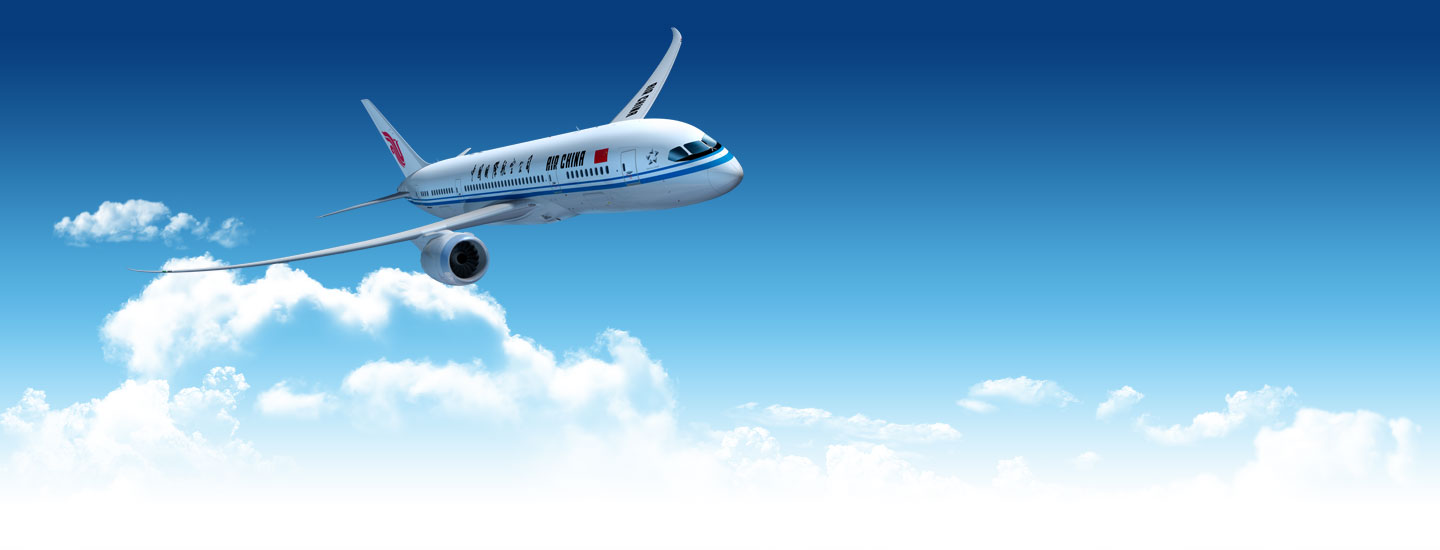
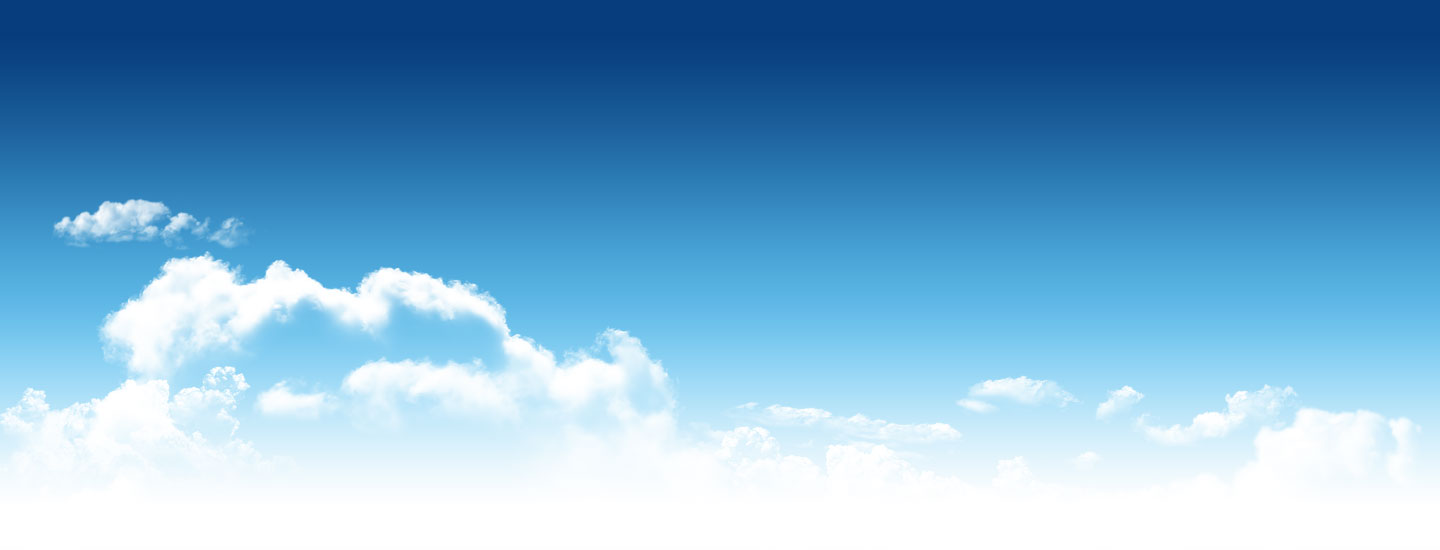
320 media

diff --git a/css/air-china.min.css b/css/air-china.min.css
@@ -1,1 +1,1 @@
-html,body{position:relative;width:100%}.gh-bg-flight{background:url(../img/gh-bg-01.png) no-repeat center;background-size:100% auto}.gh-wrapper{width:70%;margin:0 auto}.gh-icon{display:inline-block;vertical-align:middle;background:url(../img/gh-icon-map.png) no-repeat;background-size:30rem auto}.arrow-bottom{width:1.25em;height:1.25em;background-position:0 0}.calender{width:1.25em;height:1.25em;background-position:0 -1.25em}.checkbox{width:2.143em;height:2.143em;background-position:0 -4.286em}.search01{width:2.143em;height:2.143em;background-position:-2.143em -4.286em}.red-position{width:2.5em;height:2.5em;background-position:-2.5em -2.5em}.map-search{width:2.5em;height:2.5em;background-position:-2.5em -5em}.sina{width:3em;height:3em;background-position:0 -6em}.yezi{width:3em;height:3em;background-position:0 -9em}.tencent{width:3em;height:3em;background-position:0 -12em}.taobao{width:3em;height:3em;background-position:0 -15em}.baidu{width:3em;height:3em;background-position:0 -18em}.weixin{width:3em;height:3em;background-position:0 -21em}.qq{width:3em;height:3em;background-position:0 -24em}.arrow-right{width:1.5em;height:1.5em;background-position:-1.5em -4.5em}.flight{width:1.5em;height:1.5em;background-position:-1.5em 0}.gh-header .gh-right-sidebar{text-align:right}.gh-header .gh-right-sidebar a{display:inline-block;font-size:0.45em;margin-left:1em;line-height:2;color:#9f9f9f}.gh-header .gh-menu{position:relative;padding-left:15em;text-indent:0.5em}.gh-header .gh-main-logo{display:inline-block;position:absolute;top:0;left:0;width:9.75em;height:auto}.gh-header .gh-main-logo img{display:block;width:100%;max-width:100%;height:auto}.gh-header .gh-menu-list{position:relative;min-height:4em}.gh-header .gh-menu-list-ul:before,.gh-header .gh-menu-list-ul:after{content:" ";display:table}.gh-header .gh-menu-list-ul:after{clear:both}.gh-header .gh-menu-list-ul .menu-item{width:20%;padding:1em 0 0.9em 0;overflow:hidden;float:left}.gh-header .gh-menu-list-ul .menu-item:hover{background:#373737}.gh-header .gh-menu-list-ul .menu-item:hover .menu-title{color:#fff}.gh-header .gh-menu-list-ul .menu-title{font-size:0.65em;font-weight:bolder;color:#373737}.gh-header .gh-menu-list-ul .menu-desc{font-size:.45em;color:#9f9f9f}.gh-header .menu-active-bar{position:absolute;width:20%;height:.15em;bottom:0;left:0;background:#e00}.gh-sub-menu{position:absolute;background:#fff;width:100%;padding:1em 0;top:100%;left:0;z-index:10;box-shadow:0 -0.1em .1em #b9b9b9}.gh-sub-menu:before,.gh-sub-menu:after{content:" ";display:table}.gh-sub-menu:after{clear:both}.gh-sub-menu .sub-item{position:relative;float:left;width:25%}.gh-sub-menu .sub-item .gh-icon{position:absolute;top:-0.3em;left:0}.gh-sub-menu .sub-item .box{margin-left:1em}.gh-sub-menu .sub-item .box .title{font-size:.65em;font-weight:bolder;color:#373737}.gh-sub-menu .sub-item .box li{line-height:1}.gh-sub-menu .sub-item .box a{color:#9f9f9f;font-size:.45em}.gh-footer{background:#373737}.gh-footer .footer-link-list{padding:2em 0;border-bottom:1px solid #2a2a2a}.gh-footer .link-list li:before{content:"-";font-size:.65em;color:#9f9f9f}.gh-footer .link-list li a{font-size:.65em;color:#9f9f9f}.gh-footer .f-item{width:25%;float:left}.gh-footer .f-item .title{color:#fff;font-size:.7em;line-height:1.5;margin-bottom:1.5em}.gh-footer .tag-list:before,.gh-footer .tag-list:after{content:" ";display:table}.gh-footer .tag-list:after{clear:both}.gh-footer .tag-list .btn-tag{font-size:0.45em;padding:1em;display:block;float:left;margin:0 .5em .5em 0;background:#222;color:#fff}.gh-footer .tag-list .btn-tag.active{background:#e00}.gh-footer-footer{border-top:1px solid #4d4d4d;color:#9f9f9f;padding:2em 0;font-size:0.5em}.gh-footer-footer .copyright{text-indent:2em}.gh-footer-footer .gh-fr{margin-right:4em}.gh-footer-footer a{color:#9f9f9f;display:inline-block;padding-left:1em}.gh-carousel img{display:block;width:100%;max-width:100%;height:auto;visibility:hidden}.gh-carousel .img-item{position:relative;background:no-repeat left top;background-size:100% auto}.gh-carousel .img-item.slide-bac1{background-image:url(../img/top01.jpg)}.gh-carousel .img-item.slide-bac2{background-image:url(../img/top02.jpg)}.gh-carousel .desc-text{position:absolute;width:100%;top:2.5em;left:0;color:#fff}.gh-carousel .desc-text h2{font-size:3.5em;font-weight:bolder}.gh-carousel .desc-text p{font-size:1.4em}.gh-carousel .gh-left{float:left;text-align:left}.gh-carousel .gh-right{float:right;text-align:right}.gh-flights-booking{position:relative;margin-top:-2.5em;z-index:10}.gh-flights-booking .fb-title{font-size:1.1em;font-weight:bolder}.gh-flights-booking .fb-title b{color:#e00}.gh-flights-booking .fb-choose{margin:0.5em 0}.gh-flights-booking .fb-choose:before,.gh-flights-booking .fb-choose:after{content:" ";display:table}.gh-flights-booking .fb-choose:after{clear:both}.gh-flights-booking .fb-choose .fb-item{float:left;width:40%}.gh-flights-booking .fb-choose .choose-box{float:left;width:50%}.gh-flights-booking .fb-choose .choose-box h6{font-size:0.7em}.gh-flights-booking .fb-choose .choose-box .current{font-size:1.2em;color:#757575;font-weight:bolder}.gh-flights-booking .fb-choose .fb-item-first{float:left;width:30%}.gh-flights-booking .fb-choose .fb-item-last{float:left;width:30%;font-size:.7em;padding-top:1.5em}.gh-flights-booking .fb-choose .fb-item-last:before,.gh-flights-booking .fb-choose .fb-item-last:after{content:" ";display:table}.gh-flights-booking .fb-choose .fb-item-last:after{clear:both}.gh-flights-booking .fb-choose .fb-item-last .check-box{float:left;margin-right:1em}.gh-flights-booking .fb-choose .fb-item-last .search-box{position:relative;top:-2em;float:left;background:#e00}.gh-flights-booking .fb-choose .fb-item-last .search-box:before,.gh-flights-booking .fb-choose .fb-item-last .search-box:after{content:" ";display:table}.gh-flights-booking .fb-choose .fb-item-last .search-box:after{clear:both}.gh-flights-booking .fb-choose .fb-item-last .search-box span{display:block;float:left;background:inherit;color:#fff;height:4em;width:6em;text-align:center;line-height:4em}.gh-flights-booking .fb-choose .fb-item-last .search-box input{display:block;float:left;background:#222;vertical-align:top;padding:0;margin:0;width:4em;height:4em;border:none;font-size:1em}.gh-flights-booking .fb-choose .fb-item-last .search-box .search01{position:absolute;right:.8em;top:50%;margin-top:-1.07em}.gh-flights-booking .fb-choose-icon{margin-right:-0.75em;margin-top:2em}.gh-flights-booking .fb-choose-icon:before,.gh-flights-booking .fb-choose-icon:after{content:" ";display:table}.gh-flights-booking .fb-choose-icon:after{clear:both}.gh-flights-booking .fb-icon-choose-item{float:left;width:25%}.gh-flights-booking .fb-icon-choose-item .box{margin-right:0.75em}.gh-flights-booking .fb-icon-choose-item .icon-box{background:#3696dd;overflow:hidden}.gh-flights-booking .fb-icon-choose-item .icon-box img{display:block;width:100%;max-width:100%;height:auto;margin-top:-2em}.gh-flights-booking .fb-icon-choose-item .icon-box h3{text-align:center;color:#fff;font-size:1em;text-shdow:0 5px 5px #ccc;height:3em;overflow:hidden;margin:-2em 0 0 0;padding:0 0 1em 0}.gh-flights-booking .fb-icon-choose-item .desc{background:#e7e7e7;opacity:0.5;color:#373737;font-size:0.65em;padding:2em}.gh-index-title{text-align:center;padding:2em 0}.gh-index-title h2{font:1em;font-weight:bolder}.gh-index-title p{font:.7em normal}.gh-about-estimation{width:50%}.gh-about-estimation .title{color:#757575;font-size:0.8em}.gh-about-estimation p{color:#757575;font-size:0.65em;margin:1em 0.5em 0.5em 0}.gh-check-status-box{width:25%}.gh-check-status-box .box{margin-left:2em}.gh-check-status-box .title{font-size:.8em}.gh-check-status-box .textbox{display:block;width:100%;height:2em;font-size:.6em;color:#757575;border:1px solid;padding:.15em .2em;margin:1em 0 0.5em 0}.gh-check-status-box .textbox:focus,.gh-check-status-box .textbox:active,.gh-check-status-box .textbox:visited{box-shadow:none;border:1px solid;outline:none}.gh-check-status-box .btn{width:6em;height:2em;font-size:.6em;padding:.15em .2em;color:#757575;background:none;border:1px solid}.gh-top-client{margin:0 0 1.5em 0}.gh-top-client ul{margin-right:-1em}.gh-top-client ul li{display:block;float:left;width:16.6666%}.gh-top-client ul li .box{margin-right:1em}.gh-top-client ul li img{display:block;width:100%;max-width:100%;height:auto}.gh-index-map-item{position:relative}.gh-index-map{display:block;width:100%;max-width:100%;height:auto}.gh-index-map-search{position:absolute;width:100%;left:0;bottom:1em}.gh-index-map-search .input-box{position:relative;width:30%;height:2em;margin:0 auto;font-size:.6em;border-radius:.6em;padding:0 3em;background:#fff;color:#9f9f9f;border:1px solid}.gh-index-map-search .input-box input{border:none;font-size:1em;width:100%}.gh-index-map-search .input-box input:hover,.gh-index-map-search .input-box input:active,.gh-index-map-search .input-box input:visited,.gh-index-map-search .input-box input:focus{border:none;box-shadow:none;outline:none}.gh-index-map-search .input-box .gh-icon{position:absolute;top:50%;margin-top:-1.25em}.gh-index-map-search .input-box .red-position{left:0.5em}.gh-index-map-search .input-box .map-search{right:0.5em}.gh-events{margin-right:-1em}.gh-events:before,.gh-events:after{content:" ";display:table}.gh-events:after{clear:both}.events-item{float:left;width:33.3333%;margin:0 0 1em 0}.events-item .box{margin-right:1em}.events-item:hover .e-desc{background:#3696dd;color:#fff}.events-item:hover .img-hover{-webkit-animation:slidefromtop 200ms linear;-moz-animation:slidefromtop 200ms linear;-o-animation:slidefromtop 200ms linear;animation:slidefromtop 200ms linear;top:0}.events-item .e-img-box{position:relative;overflow:hidden}.events-item .e-img-box img{display:block;width:100%;max-width:100%;height:auto}.events-item .e-img-box .img-hover{position:absolute;top:-100%;left:0;height:100%;width:100%;background:rgba(0,0,0,0.5);color:#fff;font-size:0.45em}.events-item .e-img-box .text{position:absolute;top:1em;left:.5em;color:#fff}.events-item .e-img-box .text p{font-size:0.6em}.events-item .e-img-box .text h2{font-size:1.5em;font-weight:bold}.events-item .e-img-box .text h3{font-size:1.2em}.events-item .e-img-box .text h4{font-size:1em;font-weight:bold}.events-item .e-desc .title{font-size:0.9em;line-height:2em;height:2em;overflow:hidden;font-weight:bold}.events-item .e-desc p{font-weight:normal;font-size:0.65em;line-height:1em;height:2em;overflow:hidden}.gh-index-flight-hr{position:relative;text-align:center}.gh-index-flight-hr img{position:absolute;top:.8em;display:block;width:100%;max-width:100%;height:auto}.gh-index-follow{background:#3696dd;color:#fff;padding:2em 0;text-align:center}.gh-index-follow .follow-title{font-size:1em;font-weight:bolder;margin-bottom:1.5em}.gh-index-follow .follow-text{font-size:0.65em;line-height:1.5}.gh-index-follow .follow-btn-list{padding:2em 0 0 0}.gh-index-follow .follow-btn-list a{display:inline-block;margin:0 1em}.gh-index-contact{padding:2em 0}.gh-index-contact .ic-item{width:25%;float:left;color:#373737}.gh-index-contact .ic-item .box{margin-right:3em}.gh-index-contact .ic-item .box1{margin-right:2em}.gh-index-contact .ic-item .logo{display:block;width:100%;max-width:100%;height:auto}.gh-index-contact .ic-item .title{font-size:0.7em;font-weight:bolder}.gh-index-contact .ic-item p{font-size:0.65em;line-height:1.5;margin-top:2em}.gh-index-contact .ic-item p b{font-weight:bolder}.gh-index-contact .ic-item .add-map{background:url(../img/gh-bg-03.png) no-repeat center center;background-size:10em auto}.gh-index-contact .ic-item .add-map p{margin:1em 0 0 0}.gh-index-contact .post-list .post-item{position:relative;padding-left:2.7em;margin-top:0.75em}.gh-index-contact .post-list .post-item .photo{position:absolute;left:0;top:0;width:2.2em;height:auto}.gh-index-contact .post-list .post-item h5{font-size:0.7em;font-weight:bolder}.gh-index-contact .post-list .post-item p{font-style:italic;font-size:0.5em;margin:0}.gh-index-contact .flickr-list{margin-top:1em}.gh-index-contact .flickr-list:before,.gh-index-contact .flickr-list:after{content:" ";display:table}.gh-index-contact .flickr-list:after{clear:both}.gh-index-contact .flickr-list li{display:block;width:33.333%;float:left;margin-bottom:.2em}.gh-index-contact .flickr-list li .box{margin-right:.2em}.gh-index-contact .flickr-list li img{display:block;width:100%;max-width:100%;height:auto}@keyframes slidefromtop{from{transform:translate(0, 0);-moz-transform:translate(0, 0);-webkit-transform:translate(0, 0);-o-transform:translate(0, 0)}to{transform:translate(0, 100%);-moz-transform:translate(0, 100%);-webkit-transform:translate(0, 100%);-o-transform:translate(0, 100%)}}@-webkit-keyframes slidefromtop{from{top:-100%}to{top:0}}@-moz-keyframes slidefromtop{from{transform:translate(0, 0);-moz-transform:translate(0, 0);-webkit-transform:translate(0, 0);-o-transform:translate(0, 0)}to{transform:translate(0, 100%);-moz-transform:translate(0, 100%);-webkit-transform:translate(0, 100%);-o-transform:translate(0, 100%)}}@-o-keyframes slidefromtop{from{transform:translate(0, 0);-moz-transform:translate(0, 0);-webkit-transform:translate(0, 0);-o-transform:translate(0, 0)}to{transform:translate(0, 100%);-moz-transform:translate(0, 100%);-webkit-transform:translate(0, 100%);-o-transform:translate(0, 100%)}}@media only screen and (min-width:320px) and (max-width:480px),(max-width:320px){.gh-footer .gh-wrapper{width:auto}.gh-footer .f-item{float:none;width:290px;margin:0 auto}}
+html,body{position:relative;width:100%}.gh-bg-flight{background:url(../img/gh-bg-01.png) no-repeat center;background-size:100% auto}.gh-wrapper{width:70%;margin:0 auto}.gh-icon{display:inline-block;vertical-align:middle;background:url(../img/gh-icon-map.png) no-repeat;background-size:30rem auto}.arrow-bottom{width:1.25em;height:1.25em;background-position:0 0}.calender{width:1.25em;height:1.25em;background-position:0 -1.25em}.checkbox{width:2.143em;height:2.143em;background-position:0 -4.286em}.search01{width:2.143em;height:2.143em;background-position:-2.143em -4.286em}.red-position{width:2.5em;height:2.5em;background-position:-2.5em -2.5em}.map-search{width:2.5em;height:2.5em;background-position:-2.5em -5em}.sina{width:3em;height:3em;background-position:0 -6em}.yezi{width:3em;height:3em;background-position:0 -9em}.tencent{width:3em;height:3em;background-position:0 -12em}.taobao{width:3em;height:3em;background-position:0 -15em}.baidu{width:3em;height:3em;background-position:0 -18em}.weixin{width:3em;height:3em;background-position:0 -21em}.qq{width:3em;height:3em;background-position:0 -24em}.arrow-right{width:1.5em;height:1.5em;background-position:-1.5em -4.5em}.flight{width:1.5em;height:1.5em;background-position:-1.5em 0}.gh-header .gh-right-sidebar{text-align:right}.gh-header .gh-right-sidebar a{display:inline-block;font-size:0.45em;margin-left:1em;line-height:2;color:#9f9f9f}.gh-header .gh-menu{position:relative;padding-left:15em;text-indent:0.5em}.gh-header .gh-main-logo{display:inline-block;position:absolute;top:0;left:0;width:9.75em;height:auto}.gh-header .gh-main-logo img{display:block;width:100%;max-width:100%;height:auto}.gh-header .gh-menu-list{position:relative;min-height:4em}.gh-header .gh-menu-list-ul:before,.gh-header .gh-menu-list-ul:after{content:" ";display:table}.gh-header .gh-menu-list-ul:after{clear:both}.gh-header .gh-menu-list-ul .menu-item{width:20%;padding:1em 0 0.9em 0;overflow:hidden;float:left}.gh-header .gh-menu-list-ul .menu-item:hover{background:#373737}.gh-header .gh-menu-list-ul .menu-item:hover .menu-title{color:#fff}.gh-header .gh-menu-list-ul .menu-title{font-size:0.65em;font-weight:bolder;color:#373737}.gh-header .gh-menu-list-ul .menu-desc{font-size:.45em;color:#9f9f9f}.gh-header .menu-active-bar{position:absolute;width:20%;height:.15em;bottom:0;left:0;background:#e00}.gh-sub-menu{position:absolute;background:#fff;width:100%;padding:1em 0;top:100%;left:0;z-index:10;box-shadow:0 -0.1em .1em #b9b9b9}.gh-sub-menu:before,.gh-sub-menu:after{content:" ";display:table}.gh-sub-menu:after{clear:both}.gh-sub-menu .sub-item{position:relative;float:left;width:25%}.gh-sub-menu .sub-item .gh-icon{position:absolute;top:-0.3em;left:0}.gh-sub-menu .sub-item .box{margin-left:1em}.gh-sub-menu .sub-item .box .title{font-size:.65em;font-weight:bolder;color:#373737}.gh-sub-menu .sub-item .box li{line-height:1}.gh-sub-menu .sub-item .box a{color:#9f9f9f;font-size:.45em}.gh-footer{background:#373737}.gh-footer .footer-link-list{padding:2em 0;border-bottom:1px solid #2a2a2a}.gh-footer .link-list li:before{content:"-";font-size:.65em;color:#9f9f9f}.gh-footer .link-list li a{font-size:.65em;color:#9f9f9f}.gh-footer .f-item{width:25%;float:left}.gh-footer .f-item .title{color:#fff;font-size:.7em;line-height:1.5;margin-bottom:1.5em}.gh-footer .tag-list:before,.gh-footer .tag-list:after{content:" ";display:table}.gh-footer .tag-list:after{clear:both}.gh-footer .tag-list .btn-tag{font-size:0.45em;padding:1em;display:block;float:left;margin:0 .5em .5em 0;background:#222;color:#fff}.gh-footer .tag-list .btn-tag.active{background:#e00}.gh-footer-footer{border-top:1px solid #4d4d4d;color:#9f9f9f;padding:2em 0;font-size:0.5em}.gh-footer-footer .copyright{text-indent:2em}.gh-footer-footer .gh-fr{margin-right:4em}.gh-footer-footer a{color:#9f9f9f;display:inline-block;padding-left:1em}.gh-carousel img{display:block;width:100%;max-width:100%;height:auto;visibility:hidden}.gh-carousel .img-item{position:relative;background:no-repeat left top;background-size:100% auto}.gh-carousel .img-item.slide-bac1{background-image:url(../img/top01.jpg)}.gh-carousel .img-item.slide-bac2{background-image:url(../img/top02.jpg)}.gh-carousel .desc-text{position:absolute;width:100%;top:2.5em;left:0;color:#fff}.gh-carousel .desc-text h2{font-size:3.5em;font-weight:bolder}.gh-carousel .desc-text p{font-size:1.4em}.gh-carousel .gh-left{float:left;text-align:left}.gh-carousel .gh-right{float:right;text-align:right}.gh-flights-booking{position:relative;margin-top:-2.5em;z-index:10}.gh-flights-booking .fb-title{font-size:1.1em;font-weight:bolder}.gh-flights-booking .fb-title b{color:#e00}.gh-flights-booking .fb-choose{margin:0.5em 0}.gh-flights-booking .fb-choose:before,.gh-flights-booking .fb-choose:after{content:" ";display:table}.gh-flights-booking .fb-choose:after{clear:both}.gh-flights-booking .fb-choose .fb-item{float:left;width:40%}.gh-flights-booking .fb-choose .choose-box{float:left;width:50%}.gh-flights-booking .fb-choose .choose-box h6{font-size:0.7em}.gh-flights-booking .fb-choose .choose-box .current{font-size:1.2em;color:#757575;font-weight:bolder}.gh-flights-booking .fb-choose .fb-item-first{float:left;width:30%}.gh-flights-booking .fb-choose .fb-item-last{float:left;width:30%;font-size:.7em;padding-top:1.5em}.gh-flights-booking .fb-choose .fb-item-last:before,.gh-flights-booking .fb-choose .fb-item-last:after{content:" ";display:table}.gh-flights-booking .fb-choose .fb-item-last:after{clear:both}.gh-flights-booking .fb-choose .fb-item-last .check-box{float:left;margin-right:1em}.gh-flights-booking .fb-choose .fb-item-last .search-box{position:relative;top:-2em;float:left;background:#e00}.gh-flights-booking .fb-choose .fb-item-last .search-box:before,.gh-flights-booking .fb-choose .fb-item-last .search-box:after{content:" ";display:table}.gh-flights-booking .fb-choose .fb-item-last .search-box:after{clear:both}.gh-flights-booking .fb-choose .fb-item-last .search-box span{display:block;float:left;background:inherit;color:#fff;height:4em;width:6em;text-align:center;line-height:4em}.gh-flights-booking .fb-choose .fb-item-last .search-box input{display:block;float:left;background:#222;vertical-align:top;padding:0;margin:0;width:4em;height:4em;border:none;font-size:1em}.gh-flights-booking .fb-choose .fb-item-last .search-box .search01{position:absolute;right:.8em;top:50%;margin-top:-1.07em}.gh-flights-booking .fb-choose-icon{margin-right:-0.75em;margin-top:2em}.gh-flights-booking .fb-choose-icon:before,.gh-flights-booking .fb-choose-icon:after{content:" ";display:table}.gh-flights-booking .fb-choose-icon:after{clear:both}.gh-flights-booking .fb-icon-choose-item{float:left;width:25%}.gh-flights-booking .fb-icon-choose-item .box{margin-right:0.75em}.gh-flights-booking .fb-icon-choose-item .icon-box{background:#3696dd;overflow:hidden}.gh-flights-booking .fb-icon-choose-item .icon-box img{display:block;width:100%;max-width:100%;height:auto;margin-top:-2em}.gh-flights-booking .fb-icon-choose-item .icon-box h3{text-align:center;color:#fff;font-size:1em;text-shdow:0 5px 5px #ccc;height:3em;overflow:hidden;margin:-2em 0 0 0;padding:0 0 1em 0}.gh-flights-booking .fb-icon-choose-item .desc{background:#e7e7e7;opacity:0.5;color:#373737;font-size:0.65em;padding:2em}.gh-index-title{text-align:center;padding:2em 0}.gh-index-title h2{font:1em;font-weight:bolder}.gh-index-title p{font:.7em normal}.gh-about-estimation{width:50%}.gh-about-estimation .title{color:#757575;font-size:0.8em}.gh-about-estimation p{color:#757575;font-size:0.65em;margin:1em 0.5em 0.5em 0}.gh-check-status-box{width:25%}.gh-check-status-box .box{margin-left:2em}.gh-check-status-box .title{font-size:.8em}.gh-check-status-box .textbox{display:block;width:100%;height:2em;font-size:.6em;color:#757575;border:1px solid;padding:.15em .2em;margin:1em 0 0.5em 0}.gh-check-status-box .textbox:focus,.gh-check-status-box .textbox:active,.gh-check-status-box .textbox:visited{box-shadow:none;border:1px solid;outline:none}.gh-check-status-box .btn{width:6em;height:2em;font-size:.6em;padding:.15em .2em;color:#757575;background:none;border:1px solid}.gh-top-client{margin:0 0 1.5em 0}.gh-top-client ul{margin-right:-1em}.gh-top-client ul li{display:block;float:left;width:16.6666%}.gh-top-client ul li .box{margin-right:1em}.gh-top-client ul li img{display:block;width:100%;max-width:100%;height:auto}.gh-index-map-item{position:relative}.gh-index-map{display:block;width:100%;max-width:100%;height:auto}.gh-index-map-search{position:absolute;width:100%;left:0;bottom:1em}.gh-index-map-search .input-box{position:relative;width:30%;height:2em;margin:0 auto;font-size:.6em;border-radius:.6em;padding:0 3em;background:#fff;color:#9f9f9f;border:1px solid}.gh-index-map-search .input-box input{border:none;font-size:1em;width:100%}.gh-index-map-search .input-box input:hover,.gh-index-map-search .input-box input:active,.gh-index-map-search .input-box input:visited,.gh-index-map-search .input-box input:focus{border:none;box-shadow:none;outline:none}.gh-index-map-search .input-box .gh-icon{position:absolute;top:50%;margin-top:-1.25em}.gh-index-map-search .input-box .red-position{left:0.5em}.gh-index-map-search .input-box .map-search{right:0.5em}.gh-events{margin-right:-1em}.gh-events:before,.gh-events:after{content:" ";display:table}.gh-events:after{clear:both}.events-item{float:left;width:33.3333%;margin:0 0 1em 0}.events-item .box{margin-right:1em}.events-item:hover .e-desc{background:#3696dd;color:#fff}.events-item:hover .img-hover{-webkit-animation:slidefromtop 200ms linear;-moz-animation:slidefromtop 200ms linear;-o-animation:slidefromtop 200ms linear;animation:slidefromtop 200ms linear;top:0}.events-item .e-img-box{position:relative;overflow:hidden}.events-item .e-img-box img{display:block;width:100%;max-width:100%;height:auto}.events-item .e-img-box .img-hover{position:absolute;top:-100%;left:0;height:100%;width:100%;background:rgba(0,0,0,0.5);color:#fff;font-size:0.45em}.events-item .e-img-box .text{position:absolute;top:1em;left:.5em;color:#fff}.events-item .e-img-box .text p{font-size:0.6em}.events-item .e-img-box .text h2{font-size:1.5em;font-weight:bold}.events-item .e-img-box .text h3{font-size:1.2em}.events-item .e-img-box .text h4{font-size:1em;font-weight:bold}.events-item .e-desc .title{font-size:0.9em;line-height:2em;height:2em;overflow:hidden;font-weight:bold}.events-item .e-desc p{font-weight:normal;font-size:0.65em;line-height:1em;height:2em;overflow:hidden}.gh-index-flight-hr{position:relative;text-align:center}.gh-index-flight-hr img{position:absolute;top:.8em;display:block;width:100%;max-width:100%;height:auto}.gh-index-follow{background:#3696dd;color:#fff;padding:2em 0;text-align:center}.gh-index-follow .follow-title{font-size:1em;font-weight:bolder;margin-bottom:1.5em}.gh-index-follow .follow-text{font-size:0.65em;line-height:1.5}.gh-index-follow .follow-btn-list{padding:2em 0 0 0}.gh-index-follow .follow-btn-list a{display:inline-block;margin:0 1em}.gh-index-contact{padding:2em 0}.gh-index-contact .ic-item{width:25%;float:left;color:#373737}.gh-index-contact .ic-item .box{margin-right:3em}.gh-index-contact .ic-item .box1{margin-right:2em}.gh-index-contact .ic-item .logo{display:block;width:100%;max-width:100%;height:auto}.gh-index-contact .ic-item .title{font-size:0.7em;font-weight:bolder}.gh-index-contact .ic-item p{font-size:0.65em;line-height:1.5;margin-top:2em}.gh-index-contact .ic-item p b{font-weight:bolder}.gh-index-contact .ic-item .add-map{background:url(../img/gh-bg-03.png) no-repeat center center;background-size:10em auto}.gh-index-contact .ic-item .add-map p{margin:1em 0 0 0}.gh-index-contact .post-list .post-item{position:relative;padding-left:2.7em;margin-top:0.75em}.gh-index-contact .post-list .post-item .photo{position:absolute;left:0;top:0;width:2.2em;height:auto}.gh-index-contact .post-list .post-item h5{font-size:0.7em;font-weight:bolder}.gh-index-contact .post-list .post-item p{font-style:italic;font-size:0.5em;margin:0}.gh-index-contact .flickr-list{margin-top:1em}.gh-index-contact .flickr-list:before,.gh-index-contact .flickr-list:after{content:" ";display:table}.gh-index-contact .flickr-list:after{clear:both}.gh-index-contact .flickr-list li{display:block;width:33.333%;float:left;margin-bottom:.2em}.gh-index-contact .flickr-list li .box{margin-right:.2em}.gh-index-contact .flickr-list li img{display:block;width:100%;max-width:100%;height:auto}@keyframes slidefromtop{from{transform:translate(0, 0);-moz-transform:translate(0, 0);-webkit-transform:translate(0, 0);-o-transform:translate(0, 0)}to{transform:translate(0, 100%);-moz-transform:translate(0, 100%);-webkit-transform:translate(0, 100%);-o-transform:translate(0, 100%)}}@-webkit-keyframes slidefromtop{from{top:-100%}to{top:0}}@-moz-keyframes slidefromtop{from{transform:translate(0, 0);-moz-transform:translate(0, 0);-webkit-transform:translate(0, 0);-o-transform:translate(0, 0)}to{transform:translate(0, 100%);-moz-transform:translate(0, 100%);-webkit-transform:translate(0, 100%);-o-transform:translate(0, 100%)}}@-o-keyframes slidefromtop{from{transform:translate(0, 0);-moz-transform:translate(0, 0);-webkit-transform:translate(0, 0);-o-transform:translate(0, 0)}to{transform:translate(0, 100%);-moz-transform:translate(0, 100%);-webkit-transform:translate(0, 100%);-o-transform:translate(0, 100%)}}@media only screen and (min-width:320px) and (max-width:480px),(max-width:320px){.gh-wrapper{width:auto}.gh-index-item{width:90%;margin:0 auto}.gh-header .gh-main-logo{width:80%;left:10%}.gh-carousel .desc-text{font-size:.2em;padding:0 1em;box-sizing:border-box}.gh-menu-list{visibility:hidden}.gh-flights-booking{margin-top:0}.gh-flights-booking .fb-title{text-indent:5%}.gh-flights-booking .fb-choose .fb-item-first,.gh-flights-booking .fb-choose .fb-item,.gh-flights-booking .fb-choose .fb-item-last{width:auto;float:none;padding:0 5%}.gh-flights-booking .fb-choose .fb-item .choose-box{width:auto;float:none}.gh-flights-booking .fb-choose .fb-item-last{margin-top:2em}.gh-flights-booking .fb-choose-icon{margin:0 5%}.gh-flights-booking .fb-choose-icon .fb-icon-choose-item{width:auto;float:none;margin:0.5em 0}.gh-flights-booking .fb-choose-icon .fb-icon-choose-item .box{margin:0}.gh-about-estimation,.gh-check-status-box{float:none;width:auto}.gh-about-estimation .box,.gh-check-status-box .box{margin:0}.gh-events{margin:0}.events-item{float:none;width:auto}.events-item .box{margin:0}.gh-top-client ul li{width:50%;margin:0.5em 0}.gh-index-contact .gh-wrapper{width:95%}.gh-index-contact .ic-item{float:none;width:auto;margin:1em 0}.gh-index-contact .ic-item .box,.gh-index-contact .ic-item .box1{margin:0}.gh-index-contact .ic-item .box .logo,.gh-index-contact .ic-item .box1 .logo{display:block;width:80%;margin:0 auto}.gh-footer .gh-wrapper{width:auto}.gh-footer .f-item{float:none;width:290px;margin:0 auto;margin-bottom:1em}.gh-footer-footer .copyright{float:none}.gh-footer-footer .gh-fr{float:none;margin:0 1em}}

diff --git a/css/common.css b/css/common.css
@@ -1,1 +1,1 @@
-@charset "utf-8";html,body,div,span,applet,object,iframe,h1,h2,h3,h4,h5,h6,p,pre,a,abbr,acronym,address,big,cite,code,del,dfn,em,img,ins,kbd,q,s,samp,small,strike,strong,sub,sup,tt,var,b,u,i,center,dl,dt,dd,ol,ul,li,fieldset,form,label,legend,table,caption,tbody,tfoot,thead,tr,th,td,article,aside,canvas,details,embed,figure,figcaption,footer,header,hgroup,menu,nav,output,ruby,section,summary,time,mark,audio,video{margin:0;padding:0;border:0;font-size:100%;font:inherit;vertical-align:baseline}article,aside,details,figcaption,figure,footer,header,hgroup,menu,nav,section{display:block}body{line-height:1;color:#333;font:14px/1.5 "微软雅黑",Arial,Helvetica,Verdana,sans-serif}ol,ul{list-style:none}i{font-style:normal;font-weight:normal}blockquote:before,blockquote:after,q:before,q:after{content:'';content:none}table{border-collapse:collapse;border-spacing:0}a img{border:0}h1{font-size:1em}h2{font-size:1em}h3{font-size:1em}h4{font-size:1em}h5,h6{font-size:1em}a{text-decoration:none}a:hover{text-decoration:underline}div{display:block}html{-webkit-text-size-adjust:none}a{color:#39c;text-decoration:none}a:hover{text-decoration:none}a{*outline:none}a:focus{*outline:0}* html,* html body{background-image:url(about:blank);background-attachment:fixed}*{-webkit-appearance:none;-moz-appearance:none;-ms-appearance:none;appearance:none}input{border-radius:0}@media (max-width:320px){html,body{font-size:5px}}@media (min-width:320px) and (max-width:480px){html,body{font-size:7px}}@media (min-width:480px) and (max-width:720px){html,body{font-size:10px}}@media (min-width:720px) and (max-width:1080px){html,body{font-size:13px}}@media (min-width:1080px){html,body{font-size:20px}}.gh-hidden{display:none}.gh-tl{text-align:left}.gh-tc{text-align:center}.gh-tr{text-align:right}.gh-clearfix:before,.gh-clearfix:after{content:" ";display:table}.gh-clearfix:after{clear:both}.gh-fl{display:block;float:left}.gh-fr{display:block;float:right}.gh-flex-box{display:-webkit-box;display:-moz-box;display:box;display:-ms-flexbox;display:-webkit-flex;display:flex}.gh-flex-box .gh-label{width:2rem}.gh-flex-box .gh-gap{width:10px;visibility:hidden}.gh-flex-box .gh-flex{-webkit-box-flex:1;-moz-box-flex:1;-webkit-flex:1;-ms-flex:1;flex:1}
+@charset "utf-8";html,body,div,span,applet,object,iframe,h1,h2,h3,h4,h5,h6,p,pre,a,abbr,acronym,address,big,cite,code,del,dfn,em,img,ins,kbd,q,s,samp,small,strike,strong,sub,sup,tt,var,b,u,i,center,dl,dt,dd,ol,ul,li,fieldset,form,label,legend,table,caption,tbody,tfoot,thead,tr,th,td,article,aside,canvas,details,embed,figure,figcaption,footer,header,hgroup,menu,nav,output,ruby,section,summary,time,mark,audio,video{margin:0;padding:0;border:0;font-size:100%;font:inherit;vertical-align:baseline}article,aside,details,figcaption,figure,footer,header,hgroup,menu,nav,section{display:block}body{line-height:1;color:#333;font:14px/1.5 "微软雅黑",Arial,Helvetica,Verdana,sans-serif}ol,ul{list-style:none}i{font-style:normal;font-weight:normal}blockquote:before,blockquote:after,q:before,q:after{content:'';content:none}table{border-collapse:collapse;border-spacing:0}a img{border:0}h1{font-size:1em}h2{font-size:1em}h3{font-size:1em}h4{font-size:1em}h5,h6{font-size:1em}a{text-decoration:none}a:hover{text-decoration:underline}div{display:block}html{-webkit-text-size-adjust:none}a{color:#39c;text-decoration:none}a:hover{text-decoration:none}a{*outline:none}a:focus{*outline:0}* html,* html body{background-image:url(about:blank);background-attachment:fixed}*{-webkit-appearance:none;-moz-appearance:none;-ms-appearance:none;appearance:none}input{border-radius:0}html,body{font-size:20px}.gh-hidden{display:none}.gh-tl{text-align:left}.gh-tc{text-align:center}.gh-tr{text-align:right}.gh-clearfix:before,.gh-clearfix:after{content:" ";display:table}.gh-clearfix:after{clear:both}.gh-fl{display:block;float:left}.gh-fr{display:block;float:right}.gh-flex-box{display:-webkit-box;display:-moz-box;display:box;display:-ms-flexbox;display:-webkit-flex;display:flex}.gh-flex-box .gh-label{width:2rem}.gh-flex-box .gh-gap{width:10px;visibility:hidden}.gh-flex-box .gh-flex{-webkit-box-flex:1;-moz-box-flex:1;-webkit-flex:1;-ms-flex:1;flex:1}[class*=am-animation-]{-webkit-animation-duration:.5s;animation-duration:.5s;-webkit-animation-timing-function:ease-out;animation-timing-function:ease-out;-webkit-animation-fill-mode:both;animation-fill-mode:both}.am-animation-fade{-webkit-animation-name:am-fade;animation-name:am-fade;-webkit-animation-duration:.8s;animation-duration:.8s;-webkit-animation-timing-function:linear;animation-timing-function:linear}.am-animation-scale-up{-webkit-animation-name:am-scale-up;animation-name:am-scale-up}.am-animation-scale-down{-webkit-animation-name:am-scale-down;animation-name:am-scale-down}.am-animation-slide-top{-webkit-animation-name:am-slide-top;animation-name:am-slide-top}.am-animation-slide-bottom{-webkit-animation-name:am-slide-bottom;animation-name:am-slide-bottom}.am-animation-slide-left{-webkit-animation-name:am-slide-left;animation-name:am-slide-left}.am-animation-slide-right{-webkit-animation-name:am-slide-right;animation-name:am-slide-right}.am-animation-shake{-webkit-animation-name:am-shake;animation-name:am-shake}.am-animation-spin{-webkit-animation:am-spin 2s infinite linear;animation:am-spin 2s infinite linear}.am-animation-reverse{-webkit-animation-direction:reverse;animation-direction:reverse}@-webkit-keyframes am-fade{0%{opacity:0}100%{opacity:1}}@keyframes am-fade{0%{opacity:0}100%{opacity:1}}@-webkit-keyframes am-scale-up{0%{opacity:0;-webkit-transform:scale(.2)}100%{opacity:1;-webkit-transform:scale(1)}}@keyframes am-scale-up{0%{opacity:0;transform:scale(.2)}100%{opacity:1;transform:scale(1)}}@-webkit-keyframes am-scale-down{0%{opacity:0;-webkit-transform:scale(1.8)}100%{opacity:1;-webkit-transform:scale(1)}}@keyframes am-scale-down{0%{opacity:0;transform:scale(1.8)}100%{opacity:1;transform:scale(1)}}@-webkit-keyframes am-slide-top{0%{opacity:0;-webkit-transform:translateY(-100%)}100%{opacity:1;-webkit-transform:translateY(0)}}@keyframes am-slide-top{0%{opacity:0;transform:translateY(-100%)}100%{opacity:1;transform:translateY(0)}}@-webkit-keyframes am-slide-bottom{0%{opacity:0;-webkit-transform:translateY(100%)}100%{opacity:1;-webkit-transform:translateY(0)}}@keyframes am-slide-bottom{0%{opacity:0;transform:translateY(100%)}100%{opacity:1;transform:translateY(0)}}@-webkit-keyframes am-slide-left{0%{opacity:0;-webkit-transform:translateX(-100%)}100%{opacity:1;-webkit-transform:translateX(0)}}@keyframes am-slide-left{0%{opacity:0;transform:translateX(-100%)}100%{opacity:1;transform:translateX(0)}}@-webkit-keyframes am-slide-right{0%{opacity:0;-webkit-transform:translateX(100%)}100%{opacity:1;-webkit-transform:translateX(0)}}@keyframes am-slide-right{0%{opacity:0;transform:translateX(100%)}100%{opacity:1;transform:translateX(0)}}@-webkit-keyframes am-shake{0%,100%{-webkit-transform:translateX(0)}10%{-webkit-transform:translateX(-9px)}20%{-webkit-transform:translateX(8px)}30%{-webkit-transform:translateX(-7px)}40%{-webkit-transform:translateX(6px)}50%{-webkit-transform:translateX(-5px)}60%{-webkit-transform:translateX(4px)}70%{-webkit-transform:translateX(-3px)}80%{-webkit-transform:translateX(2px)}90%{-webkit-transform:translateX(-1px)}}@keyframes am-shake{0%,100%{transform:translateX(0)}10%{transform:translateX(-9px)}20%{transform:translateX(8px)}30%{transform:translateX(-7px)}40%{transform:translateX(6px)}50%{transform:translateX(-5px)}60%{transform:translateX(4px)}70%{transform:translateX(-3px)}80%{transform:translateX(2px)}90%{transform:translateX(-1px)}}@-webkit-keyframes am-slide-top-fixed{0%{opacity:0;-webkit-transform:translateY(-10px)}100%{opacity:1;-webkit-transform:translateY(0)}}@keyframes am-slide-top-fixed{0%{opacity:0;transform:translateY(-10px)}100%{opacity:1;transform:translateY(0)}}@-webkit-keyframes am-slide-bottom-fixed{0%{opacity:0;-webkit-transform:translateY(10px)}100%{opacity:1;-webkit-transform:translateY(0)}}@keyframes am-slide-bottom-fixed{0%{opacity:0;transform:translateY(10px)}100%{opacity:1;transform:translateY(0)}}@-webkit-keyframes am-spin{0%{-webkit-transform:rotate(0deg)}100%{-webkit-transform:rotate(359deg)}}@keyframes am-spin{0%{transform:rotate(0deg)}100%{transform:rotate(359deg)}}

diff --git a/less/responsive.less b/less/responsive.less
@@ -1,0 +1,159 @@
+@media only screen and (max-width: 1200px) {
+
+}
+@media only screen and (max-width: 1150px) {
+
+}
+
+
+@media only screen and (min-width: 1024px) and (max-width: 1100px) {
+
+}
+
+@media only screen and (min-width: 768px) and (max-width: 1023px) and (orientation: portrait),
+ (min-width: 768px) and (max-width: 1023px) {
+
+ }
+
+
+
+ @media only screen and (min-width: 480px) and (max-width: 767px), 
+ (min-width: 320px) and (max-width: 480px), (max-width: 320px) {
+
+ }
+
+
+@media only screen and (min-width: 480px) and (max-width: 767px) {
+
+}
+@media only screen and (min-width: 320px) and (max-width: 480px), 
+(max-width: 320px) {
+.gh-wrapper{
+	width: auto;
+}
+.gh-index-item{
+	width: 90%;
+	margin: 0 auto;
+}
+.gh-header .gh-main-logo{
+	width: 80%;
+	left: 10%;
+}
+.gh-carousel .desc-text{
+	font-size: .2em;
+	padding: 0 1em;
+	box-sizing:border-box;
+}
+.gh-menu-list{
+	visibility: hidden;
+}
+//gh-flights-booking
+.gh-flights-booking{
+	margin-top: 0;
+	.fb-title{
+		text-indent: 5%;
+	}
+	.fb-choose{
+		.fb-item-first,.fb-item,.fb-item-last{
+			width: auto;
+			float: none;
+			padding: 0 5%;
+		}
+		.fb-item{
+			.choose-box{
+				width: auto;
+				float: none;
+			}
+		}
+		.fb-item-last{
+			margin-top: 2em;
+		}
+	}
+	.fb-choose-icon{
+		margin: 0 5%;
+		.fb-icon-choose-item{
+			width: auto;
+			float: none;
+			margin: 0.5em 0;
+			.box{
+				margin: 0;
+			}
+		}
+	}
+}
+//gh-about
+.gh-about-estimation,
+.gh-check-status-box{
+	float: none;
+	width: auto;
+	.box{
+		margin: 0;
+	}
+}
+
+//event
+.gh-events{
+	margin: 0;
+}
+.events-item{
+	float: none;
+	width: auto;
+	.box{
+		margin: 0;
+	}
+}
+
+//top client 
+.gh-top-client{
+	ul{
+		li{
+			width: 50%;
+			margin: 0.5em 0;
+		}
+	}
+}
+//contact
+.gh-index-contact{
+	.gh-wrapper{
+		width: 95%;
+	}
+	.ic-item{
+		float: none;
+		width: auto;
+		margin: 1em 0;
+		.box,.box1{
+			margin: 0;
+			.logo{
+				display: block;
+				width: 80%;
+				margin: 0 auto;
+			}
+		}
+	}
+}
+
+
+	
+//页脚
+	.gh-footer{
+		.gh-wrapper{
+			width: auto;
+		}
+		.f-item{
+			float: none;
+			width: 290px;
+			margin: 0 auto;
+			margin-bottom: 1em;
+		}
+	}
+	.gh-footer-footer{
+		.copyright{
+			float: none;
+		}
+		.gh-fr{
+			float: none;
+			margin: 0 1em;
+		}
+	}
+}
+

diff --git a/less/common/media.less b/less/common/media.less
@@ -1,18 +1,19 @@
 html,
 body{
-	@media (max-width:320px){
-		font-size: 5px;
-	}
-	@media (min-width:320px) and (max-width:480px){
-		font-size: 7px;
-	}
-	@media (min-width:480px) and (max-width:720px){
-		font-size: 10px;
-	}
-	@media (min-width:720px) and (max-width:1080px){
-		font-size: 13px;
-	}
-	@media (min-width:1080px){
-		font-size: 20px;
-	}
+/* 	@media (max-width:320px){
+	font-size: 5px;
+}
+@media (min-width:320px) and (max-width:480px){
+	font-size: 7px;
+}
+@media (min-width:480px) and (max-width:720px){
+	font-size: 10px;
+}
+@media (min-width:720px) and (max-width:1080px){
+	font-size: 13px;
+}
+@media (min-width:1080px){
+	font-size: 20px;
+} */
+	font-size: 20px;
 }

diff --git a/less/module/gh-carousel.less b/less/module/gh-carousel.less
@@ -1,9 +1,18 @@
 .gh-carousel{
 	img{
 		.img-responsive();
+		visibility: hidden;
 	}
 	.img-item{
 		position: relative;
+		background: no-repeat left top;
+		background-size: 100% auto;
+		&.slide-bac1{
+			background-image:url(../img/top01.jpg);
+		}
+		&.slide-bac2{
+			background-image: url(../img/top02.jpg);
+		}
 	}
 	.desc-text{
 		position: absolute;

diff --git a/index.html b/index.html
@@ -441,7 +441,7 @@
 			</div>
 		</div>
 	</div>
-	<div class="gh-index-item gh-index-map-item">
+	<div class="gh-index-map-item">
 		<img src="img/map.jpg" alt="" class="gh-index-map">
 		<div class="gh-index-map-search">
 			<div class="input-box">

diff --git a/less/gh.less b/less/gh.less
@@ -15,3 +15,5 @@
 @import "module/gh-follow-us.less";
 @import "module/gh-contact.less";
 @import "module/gh-animation.less";
+
+@import "responsive.less";
